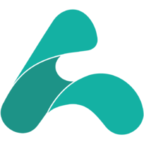
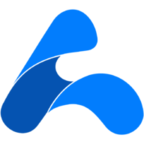
Website under renovation

diff --git a/src/App.jsx b/src/App.jsx
@@ -1,20 +1,32 @@
 import React from 'react'
-import Intro from "./components/Intro"
-import Projects from "./components/Projects"
-import About from "./components/About"
-import Footer from "./components/Footer"
+import { SiGithub, SiTwitter } from 'react-icons/si'
+import image from "./images/loading.webp"
 
 const App = () => {
   return (
-    <div className="min-h-screen min-w-full text-black dark:text-white bg-gray-200 dark:bg-gray-800">
-      <div className="max-w-6xl mx-auto py-3 md:py-10 px-2 md:px-8 xl:px-2">
-        <Intro />
-        <hr className='border-gray-200 dark:border-gray-800'/>
-        <About />
-        <Projects />
-        <Footer />
+    <div className="flex min-h-screen min-w-full text-black dark:text-white bg-gray-200 dark:bg-gray-800">
+      <div className="max-w-6xl m-auto px-3 md:px-0 shadow-md card">
+        <div className="py-8 bg-white dark:bg-gray-900 rounded-tl-lg rounded-lg">
+          <p className="mt-2 mb-6 text-2xl leading-8 font-extrabold tracking-tight text-gray-900 dark:text-gray-100 sm:text-3xl text-center">
+            🛠 Sitio en renovación 🛠
+          </p>
+
+          <div className="max-w-7xl mx-auto px-4 sm:px-6 lg:px-8">
+            <img src={image} alt="Loading" />
+          </div>
+
+          <div className="flex items-center justify-end px-4 pt-8 mt-5">
+            <span className='mr-6'>Sígueme ➡</span>
+            <a className="mx-2 hover:text-primary-500" href="https://twitter.com/AlexTorresSk" target="_blank" rel="noopener noreferrer">
+              <SiTwitter className="w-6 h-6" />
+            </a>
+            <a className="mx-2 hover:text-gray-600" href="https://github.com/AlexTorresSk" target="_blank" rel="noopener noreferrer">
+              <SiGithub className="w-6 h-6" />
+            </a>
+          </div>
+        </div>
       </div>
-    </div>
+    </div >
   )
 }
 

diff --git a/src/components/Footer.jsx b/src/components/Footer.jsx
@@ -4,30 +4,7 @@ import { SiGithub, SiTwitter } from 'react-icons/si'
 const Footer = () => {
 	return (
 		<div>
-			<div className="py-8 bg-white dark:bg-gray-900 rounded-bl-lg rounded-br-lg">
-				<div className="max-w-7xl mx-auto px-4 sm:px-6 lg:px-8">
-					<h2 className="text-2xl font-semibold tracking-wide">📒 Contact me</h2>
-					<div className="mt-4 text-base text-gray-500 dark:text-gray-400">
-						You can write me on: <b>
-							<a className="hover:text-primary-400" href="mailto:alextorressk@gmail.com">alextorressk@gmail.com</a>
-						</b>
-						<br />
-						or follow me on my social networks.
-						<div className="flex items-center justify-end mt-5">
-							<a className="mx-2 hover:text-primary-500" href="https://twitter.com/AlexTorresSk" target="_blank" rel="noopener noreferrer">
-								<SiTwitter className="w-6 h-6" />
-							</a>
-							<a className="mx-2 hover:text-primary-500" href="https://github.com/AlexTorresSk" target="_blank" rel="noopener noreferrer">
-								<SiGithub className="w-6 h-6" />
-							</a>
-						</div>
-					</div>
-				</div>
-			</div>
-
-			<p className="m-0 mt-9 text-sm text-gray-400 text-center md:text-right">
-				&copy; {new Date().getFullYear()} All rights reserved
-			</p>
+			
 		</div>
 	)
 }

diff --git a/src/components/About.jsx b/src/components/About.jsx
@@ -5,7 +5,7 @@ const About = () => {
         <div className="py-8 bg-white dark:bg-gray-900">
             <div className="max-w-7xl mx-auto px-4 sm:px-6 lg:px-8">
                 <p className="text-base text-gray-500 dark:text-gray-400">
-                    I am a person who likes to research, learn and teach new things in technology and programming languages. I use frameworks like Angular, Spring Boot, and Flutter. I am currently working on various mobile projects using Framework Flutter 📱 and some web with Angular, React 💻. I am also learning NodeJS, Microservices and Micro frontend.
+                    I am a person who likes to research, learn and teach new things in technology and programming languages. I use frameworks like Angular, Spring Boot, and Flutter. I am currently working on various mobile projects using Framework Flutter 📱 and some web with Angular, React 💻.
                 </p>
                 <p className="mt-12 text-xl text-gray-900 dark:text-gray-100">😍 Languages I use the most</p>
                 <div className="mt-5 text-base text-gray-500 dark:text-gray-400">

diff --git a/src/components/Projects.jsx b/src/components/Projects.jsx
@@ -1,19 +1,10 @@
 import React from "react";
-import { RiFlutterFill } from "react-icons/ri"
 import { SiPhpmyadmin } from "react-icons/si"
 import { IoLogoElectron } from "react-icons/io5"
 
 const Projects = () => {
 
 	const projects = [
-		{
-			link: "https://github.com/AlexTorresSk/flutter-template",
-			icon: RiFlutterFill,
-			color: "#0468d7",
-			name: "Flutter template",
-			description: "It is a template to start with the development of a mobile application developed in Flutter",
-			status: "active"
-		},
 		{
 			link: "https://github.com/AlexTorresSk/custom-electron-titlebar",
 			icon: IoLogoElectron,
@@ -35,7 +26,7 @@ const Projects = () => {
 	return (
 		<div className="py-8 bg-white dark:bg-gray-900">
 			<div className="max-w-7xl mx-auto px-4 sm:px-6 lg:px-8">
-				<h2 className="text-2xl font-semibold tracking-wide">🛠 My projects</h2>
+				<h2 className="text-2xl font-semibold tracking-wide">🛠 Proyectos</h2>
 
 				<div className="mt-12">
 					<dl className="space-y-10 md:space-y-0 md:grid md:grid-cols-2 md:gap-x-8 md:gap-y-10">

diff --git a/index.html b/index.html
@@ -1,12 +1,12 @@
 <!DOCTYPE html>
-<html lang="es">
+<html lang="en">
 
 <head>
   <meta charset="utf-8" />
   <meta name="viewport" content="width=device-width, initial-scale=1" />
-  <meta name="description" content="AlexTorresSk - Full Stack & Fluttter Developer" />
-  <meta name="theme-color" content="#14B3A4" />
-  <title>AlexTorresSk - Full Stack & Fluttter Developer</title>
+  <meta name="description" content="AlexTorresSk - Frontend Developer" />
+  <meta name="theme-color" content="#027DFD" />
+  <title>AlexTorresSk - Frontend Developer</title>
   <link rel="icon" href="./src/favicon.ico" />
   <link rel="apple-touch-icon" sizes="57x57" href="/src/images/apple-icon-57x57.png">
   <link rel="apple-touch-icon" sizes="60x60" href="/src/images/apple-icon-60x60.png">

diff --git a/src/components/Intro.jsx b/src/components/Intro.jsx
@@ -4,13 +4,7 @@ const Intro = () => {
     return (
         <div className="py-8 bg-white dark:bg-gray-900 rounded-tl-lg rounded-tr-lg">
             <div className="max-w-7xl mx-auto px-4 sm:px-6 lg:px-8">
-                <h2 className="text-2xl text-primary-600 font-semibold tracking-wide uppercase">Hi 👋!</h2>
-                <p className="mt-2 text-2xl leading-8 font-extrabold tracking-tight text-gray-900 dark:text-gray-100 sm:text-3xl">
-                    I'm Alex Torres
-                </p>
-                <p className="mt-4 text-xl text-gray-500 dark:text-gray-400">
-                    Full Stack 💻 & Flutter 📱 Developer
-                </p>
+                
             </div>
         </div>
     )

diff --git a/tailwind.config.js b/tailwind.config.js
@@ -8,16 +8,16 @@ module.exports = {
       colors: {
         'primary': {
           DEFAULT: '#14B3A4',
-          '50': '#B6F7F1',
-          '100': '#9FF4EC',
-          '200': '#71EFE3',
-          '300': '#43EADA',
-          '400': '#19E1CE',
-          '500': '#14B3A4',
-          '600': '#109387',
-          '700': '#0D7369',
-          '800': '#09534C',
-          '900': '#06332E'
+          50: '#e1efff',
+          100: '#b3d8fe',
+          200: '#81befe',
+          300: '#4ea4fe',
+          400: '#2891fd',
+          500: '#027dfd',
+          600: '#0275fd',
+          700: '#016afc',
+          800: '#0160fc',
+          900: '#014dfc',
         },
       },
     },

diff --git a/src/index.css b/src/index.css
@@ -5,3 +5,11 @@
 label {
     @apply ml-16 py-0.5 text-xs px-2 ring-1 rounded font-bold uppercase;
 }
+
+.card {
+    transition: all 0.3s ease-in-out;
+}
+
+.card:hover {
+   transform: matrix(1.05, 0, 0, 1.05, 0, 0) rotate(-0.8deg);
+}
